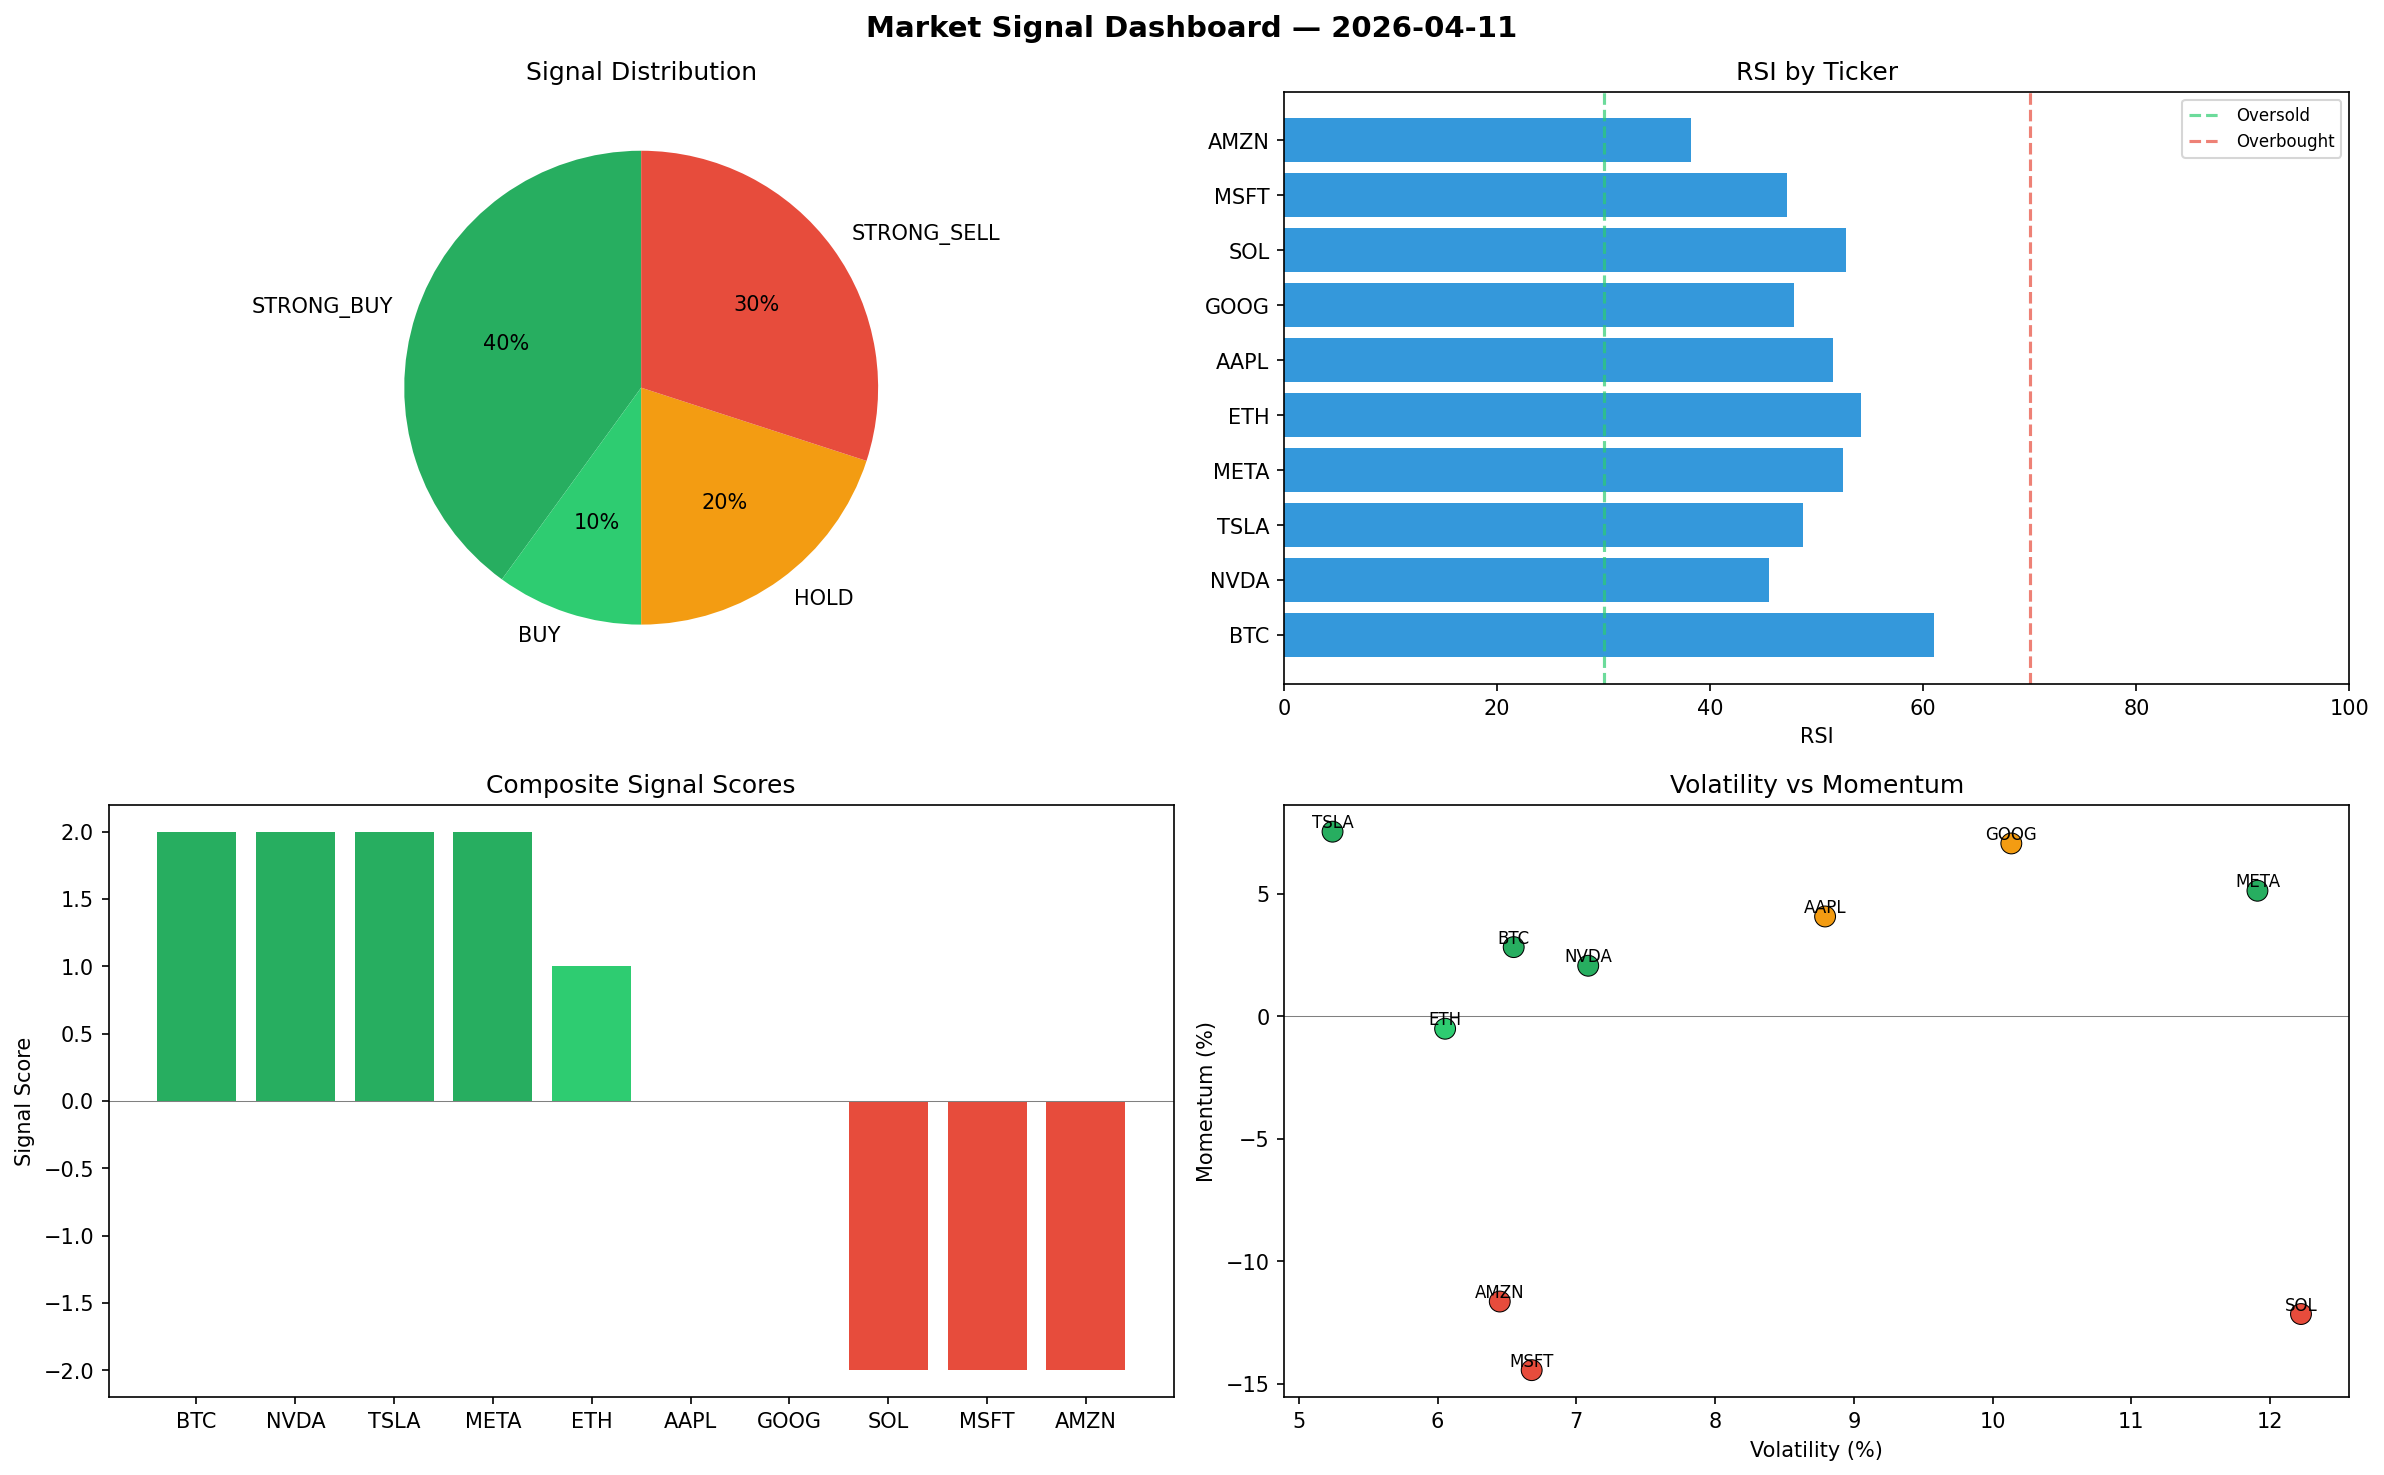
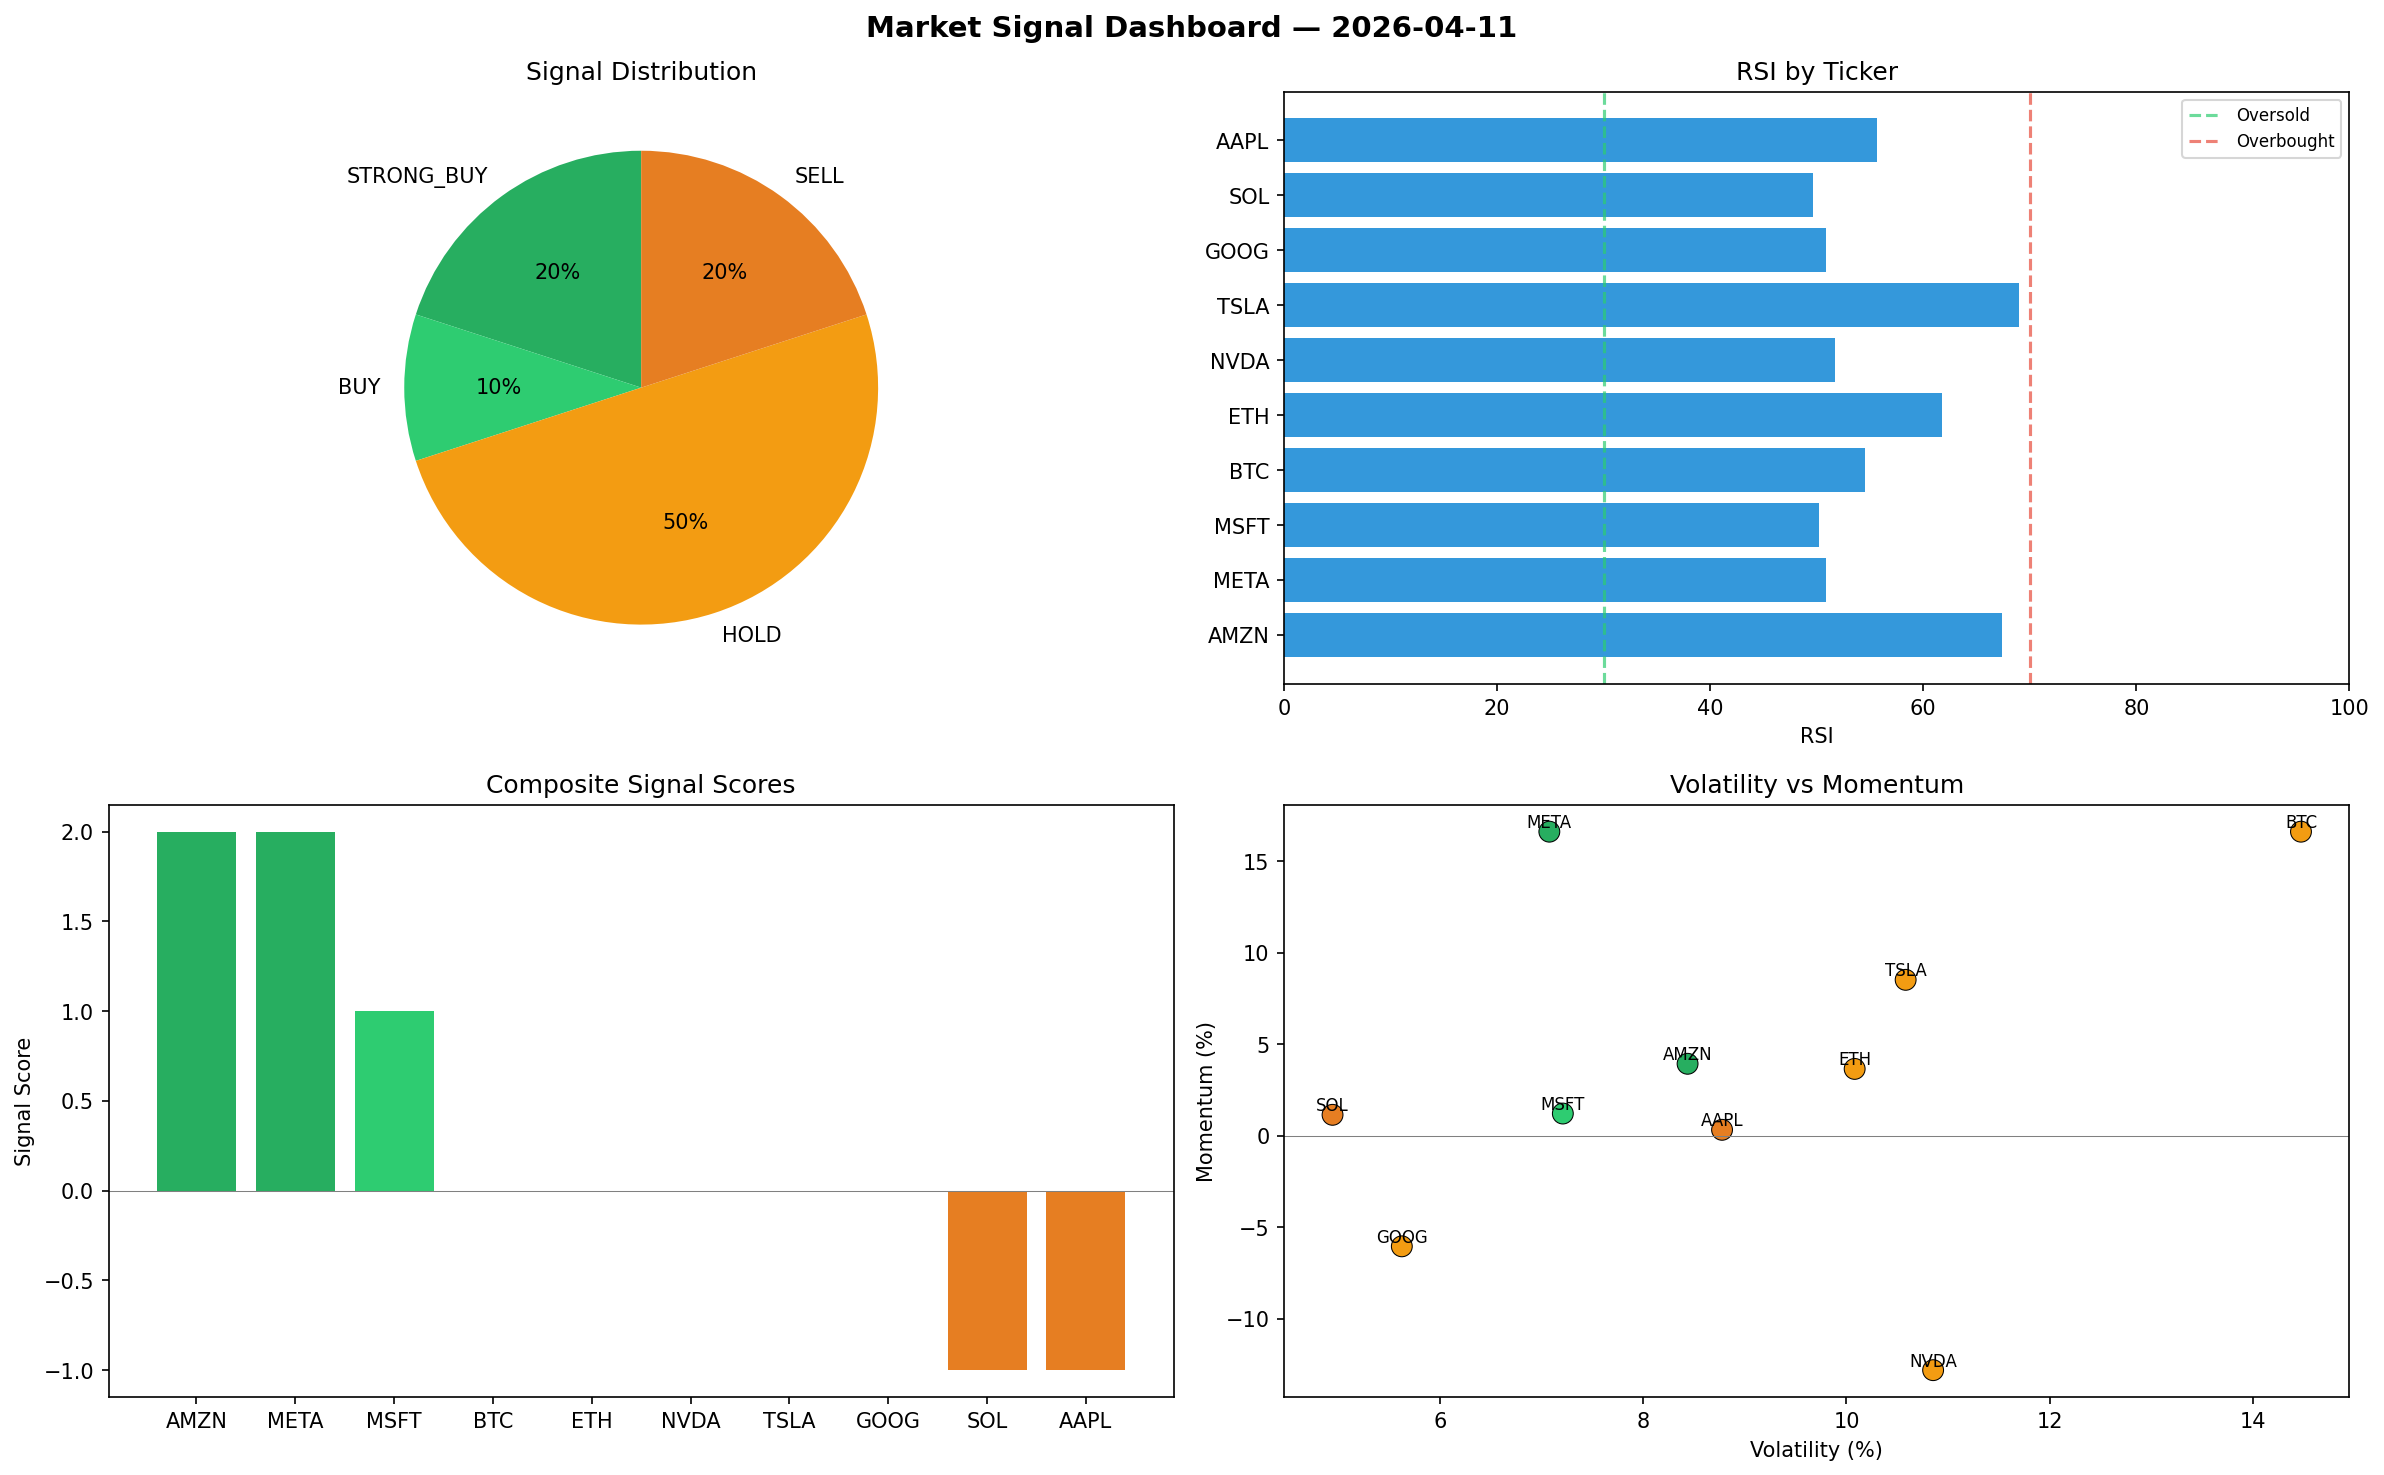
automated-bots: market signals 2026-04-11T09:06

diff --git a/logs/2026-04-11.md b/logs/2026-04-11.md
@@ -1,6 +1,6 @@
 # Market Signal Report — 2026-04-11
 
-**Run ID:** `7448dd5c1f` | **Buy:** 5 | **Sell:** 3 | **Hold:** 2
+**Run ID:** `a6038623e8` | **Buy:** 3 | **Sell:** 2 | **Hold:** 5
 
 ![Dashboard](2026-04-11_dashboard.png)
 
@@ -8,28 +8,28 @@
 
 | Ticker | Price | Signal | Score | RSI | Momentum | Confidence |
 |--------|-------|--------|-------|-----|----------|------------|
-| BTC | $501.4 | **STRONG_BUY** | 2 | 60.99 | 0.0282 | 0.5 |
-| NVDA | $4159.56 | **STRONG_BUY** | 2 | 45.48 | 0.0206 | 0.5 |
-| TSLA | $1903.48 | **STRONG_BUY** | 2 | 48.74 | 0.0753 | 0.5 |
-| META | $4170.84 | **STRONG_BUY** | 2 | 52.43 | 0.0512 | 0.5 |
-| ETH | $225.24 | **BUY** | 1 | 54.19 | -0.0051 | 0.25 |
-| AAPL | $4784.09 | **HOLD** | 0 | 51.5 | 0.0407 | 0.0 |
-| GOOG | $3028.16 | **HOLD** | 0 | 47.87 | 0.0705 | 0.0 |
-| SOL | $2254.47 | **STRONG_SELL** | -2 | 52.74 | -0.1215 | 0.5 |
-| MSFT | $2212.23 | **STRONG_SELL** | -2 | 47.23 | -0.1444 | 0.5 |
-| AMZN | $422.07 | **STRONG_SELL** | -2 | 38.19 | -0.1164 | 0.5 |
+| AMZN | $3717.0 | **STRONG_BUY** | 2 | 67.36 | 0.0394 | 0.5 |
+| META | $3722.59 | **STRONG_BUY** | 2 | 50.84 | 0.1663 | 0.5 |
+| MSFT | $3186.61 | **BUY** | 1 | 50.24 | 0.0122 | 0.25 |
+| BTC | $4526.01 | **HOLD** | 0 | 54.56 | 0.1663 | 0.0 |
+| ETH | $4459.32 | **HOLD** | 0 | 61.76 | 0.0366 | 0.0 |
+| NVDA | $3586.84 | **HOLD** | 0 | 51.71 | -0.1281 | 0.0 |
+| TSLA | $3390.86 | **HOLD** | 0 | 68.99 | 0.0853 | 0.0 |
+| GOOG | $4465.67 | **HOLD** | 0 | 50.83 | -0.0604 | 0.0 |
+| SOL | $1803.26 | **SELL** | -1 | 49.64 | 0.0115 | 0.25 |
+| AAPL | $1386.29 | **SELL** | -1 | 55.69 | 0.0033 | 0.25 |
 
 ## Delta vs Yesterday
 
 | Ticker | Today | Yesterday | Price Change | Signal Changed |
 |--------|-------|-----------|-------------|----------------|
-| BTC | STRONG_BUY | SELL | 📉 -60.94% | ⚠ YES |
-| NVDA | STRONG_BUY | STRONG_SELL | 📉 -6.74% | ⚠ YES |
-| TSLA | STRONG_BUY | STRONG_SELL | 📈 434.1% | ⚠ YES |
-| META | STRONG_BUY | HOLD | 📈 40.4% | ⚠ YES |
-| ETH | BUY | STRONG_BUY | 📉 -89.85% | ⚠ YES |
-| AAPL | HOLD | HOLD | 📈 34.77% | — |
-| GOOG | HOLD | HOLD | 📉 -29.22% | — |
-| SOL | STRONG_SELL | BUY | 📉 -50.69% | ⚠ YES |
-| MSFT | STRONG_SELL | BUY | 📉 -33.09% | ⚠ YES |
-| AMZN | STRONG_SELL | STRONG_SELL | 📉 -44.56% | — |
+| AMZN | STRONG_BUY | STRONG_SELL | 📈 388.24% | ⚠ YES |
+| META | STRONG_BUY | HOLD | 📈 25.31% | ⚠ YES |
+| MSFT | BUY | BUY | 📉 -3.62% | — |
+| BTC | HOLD | SELL | 📈 252.56% | ⚠ YES |
+| ETH | HOLD | STRONG_BUY | 📈 100.85% | ⚠ YES |
+| NVDA | HOLD | STRONG_SELL | 📉 -19.58% | ⚠ YES |
+| TSLA | HOLD | STRONG_SELL | 📈 851.45% | ⚠ YES |
+| GOOG | HOLD | HOLD | 📈 4.38% | — |
+| SOL | SELL | BUY | 📉 -60.56% | ⚠ YES |
+| AAPL | SELL | HOLD | 📉 -60.95% | ⚠ YES |
